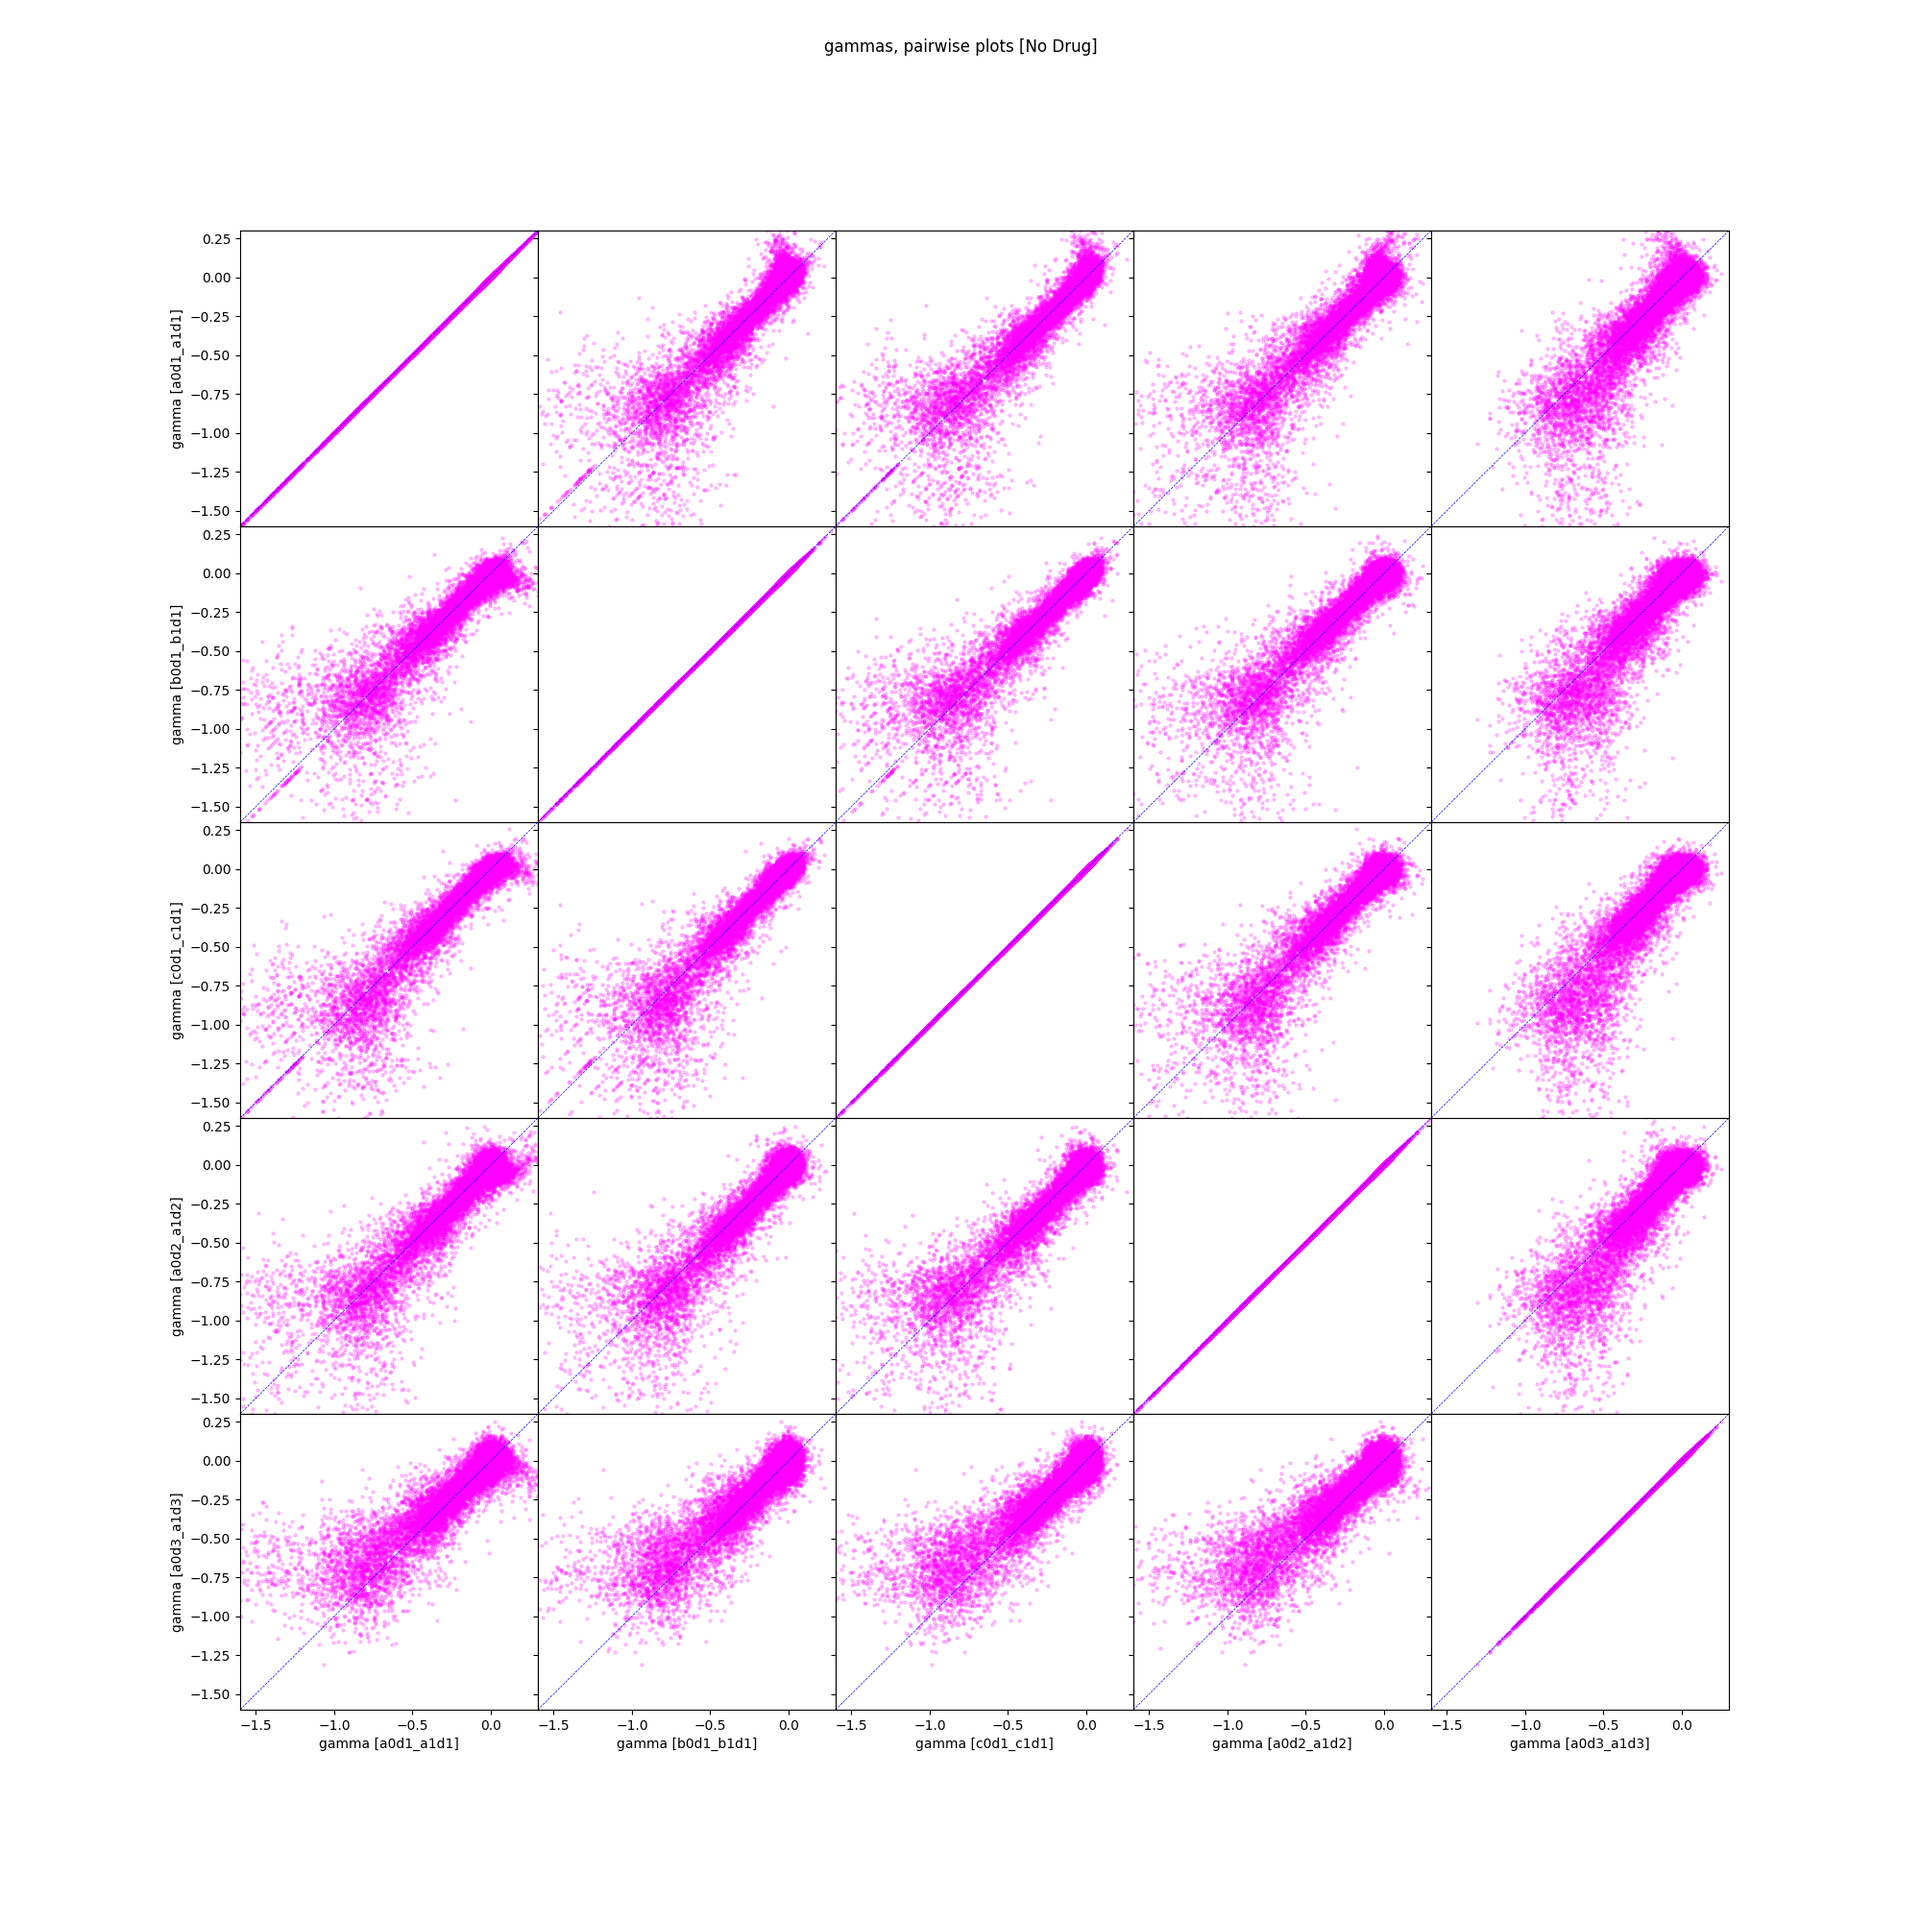
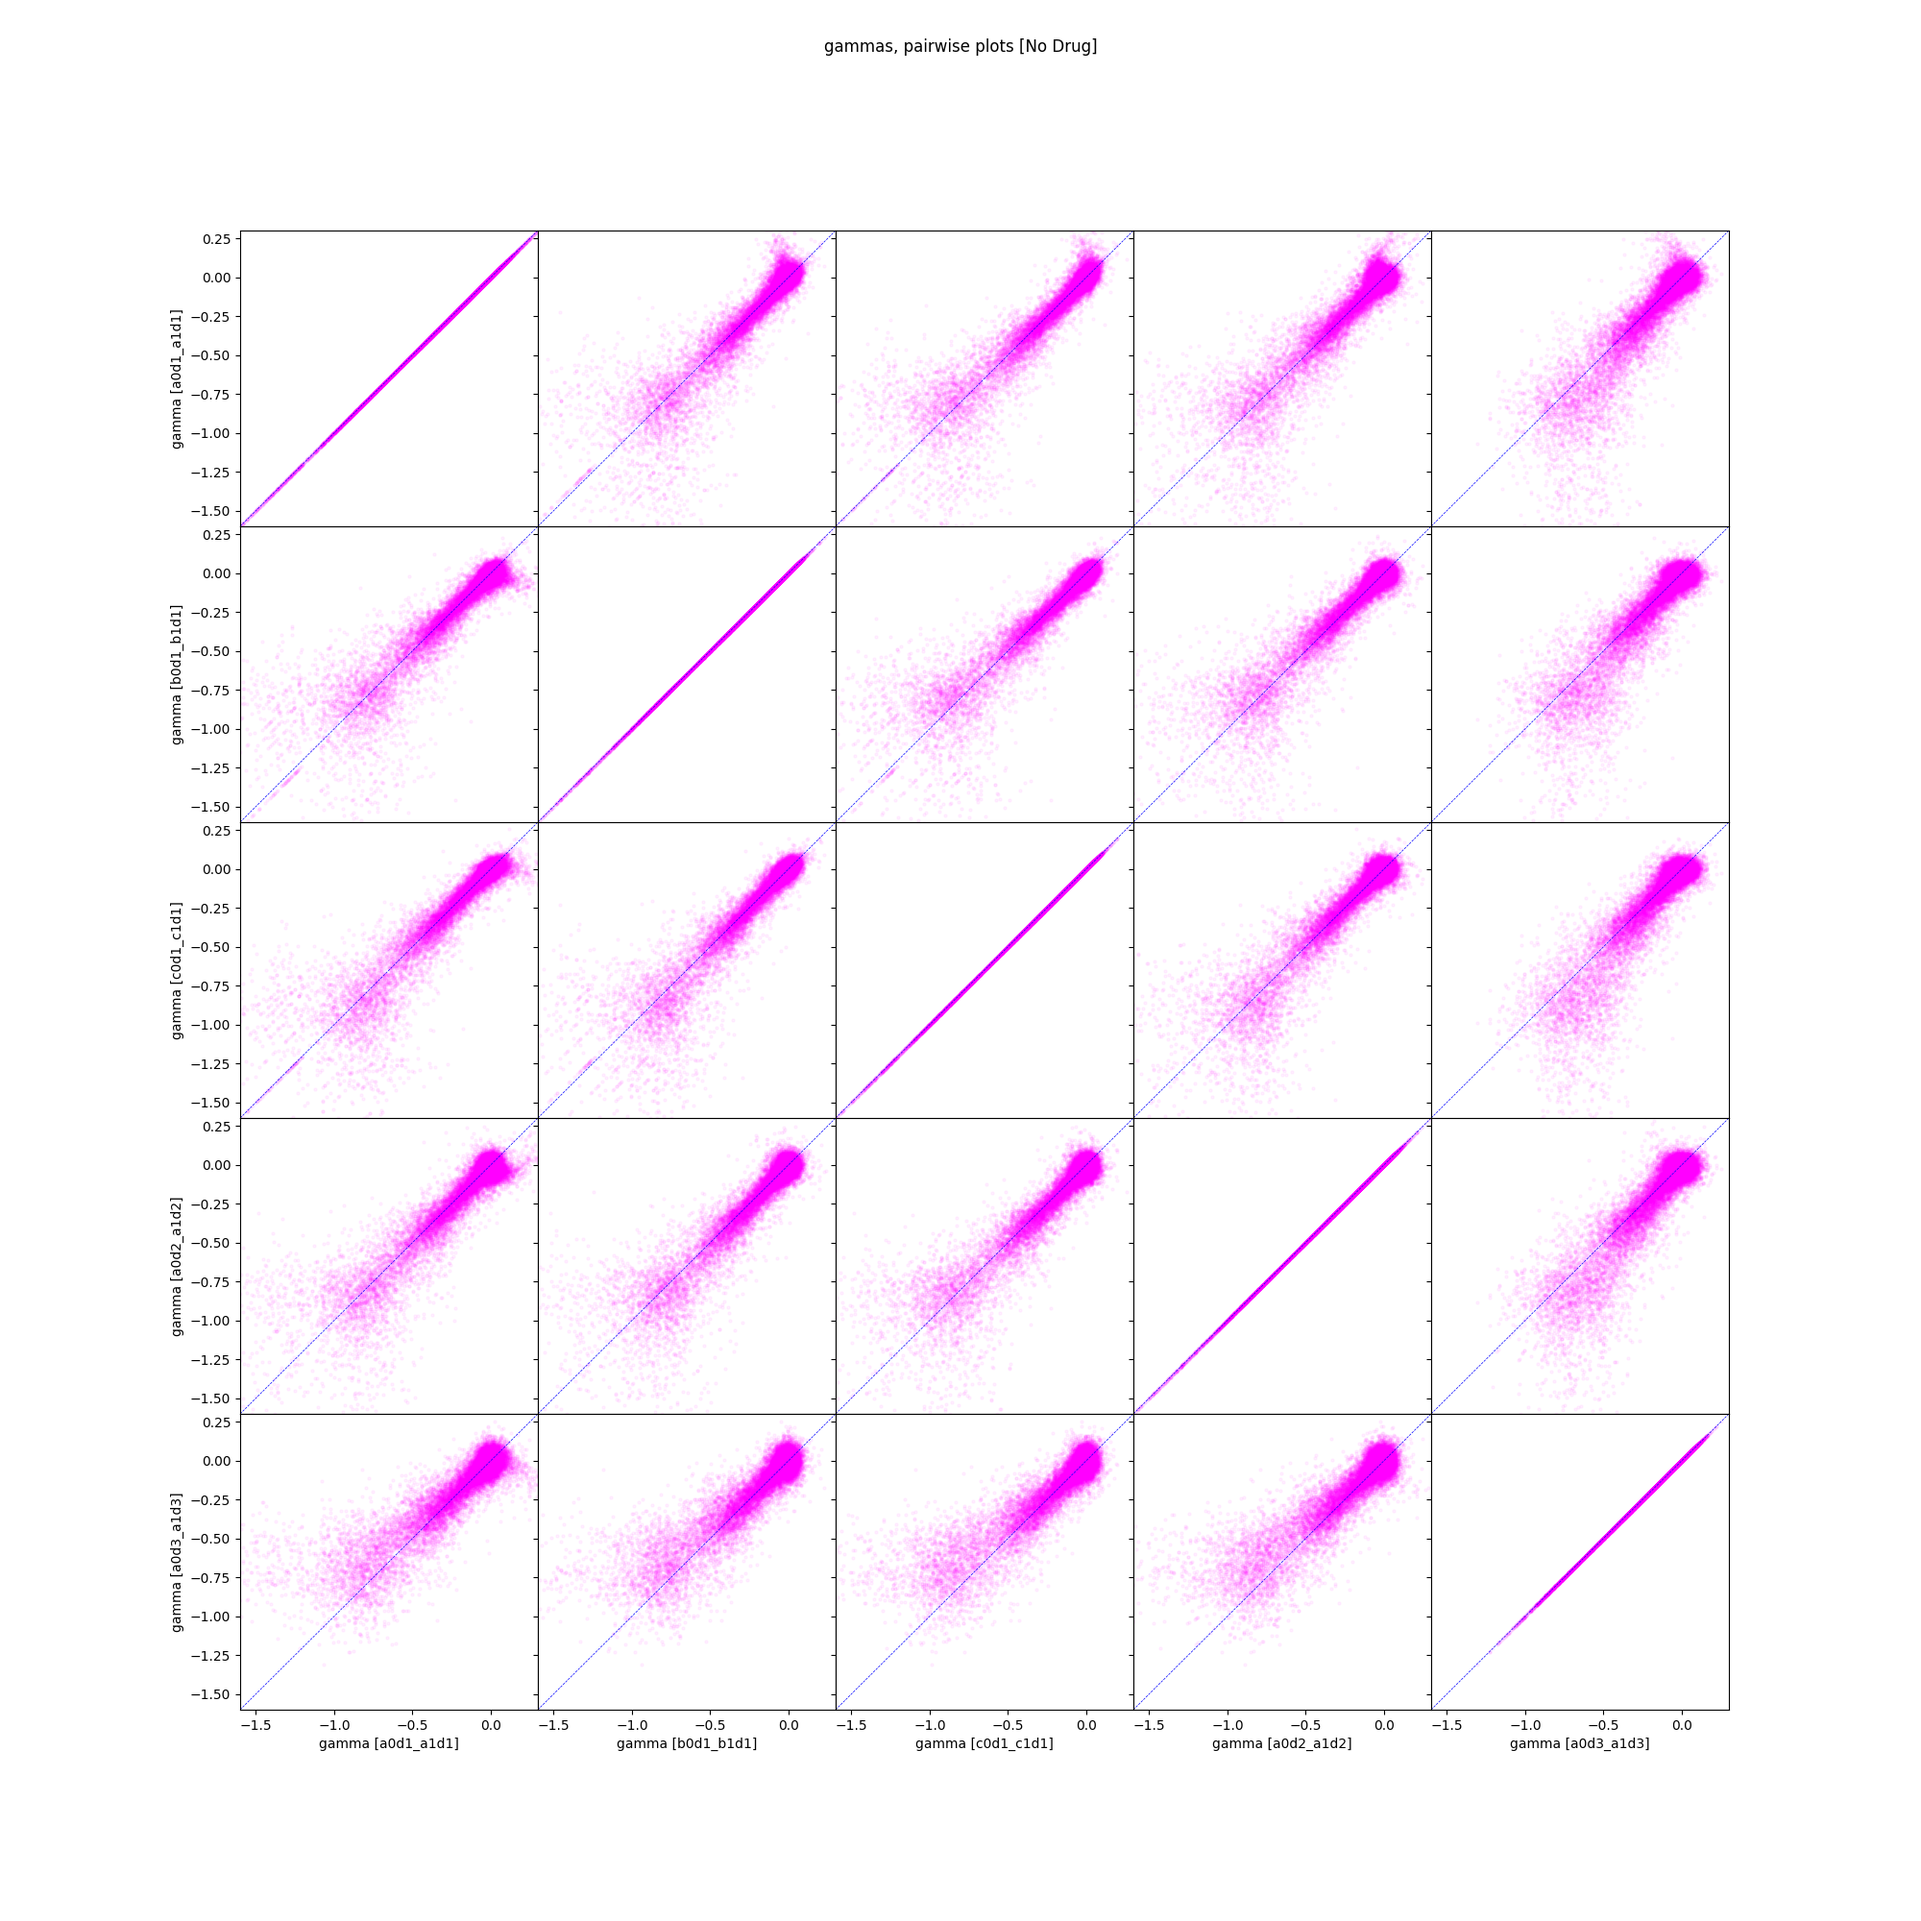
Reduce alpha and drop busy graphs from minimal interval graphs
Former-commit-id: fa0ce6e9e61577d775fdc29114989b5097ec243b [formerly 9e6d4f38651937ad688bd1d1259e41ffae9ac958]
Former-commit-id: e9ee8b92f2b10b94bfe145925d5571b1b86ff8fb

diff --git a/docs/20171205_lib2_ind/code/no_drug_pairwise_e_20180220.py b/docs/20171205_lib2_ind/code/no_drug_pairwise_e_20180220.py
@@ -72,7 +72,7 @@ for i, yitem in enumerate(plotsets):
     right = grouper.get_group(yitem)
     merged = pd.merge(left, right, on='variant', suffixes=['_l', '_r'])
     ax = sns.regplot('gamma_l', 'gamma_r', data=merged, fit_reg=False, ax=ax,
-                     scatter_kws=dict(s=sizes, alpha=0.2, color='magenta'))
+                     scatter_kws=dict(s=sizes, alpha=0.05, color='magenta'))
     ax.set_xlim(start, stop)
     ax.set_ylim(start, stop)
     ax.set(xlabel='gamma [' + leftname + ']')
@@ -81,8 +81,8 @@ for i, yitem in enumerate(plotsets):
 
 fig.suptitle('gammas, pairwise plots [No Drug]')
 fig.subplots_adjust(hspace=0, wspace=0)
-logging.info('Writing rich graph to {graphout}'.format(**vars()))
-plt.savefig(graphout)
+# logging.info('Writing rich graph to {graphout}'.format(**vars()))
+# plt.savefig(graphout)
 logging.info('Writing flat graph to {graphflat}'.format(**vars()))
 plt.savefig(graphflat)
 plt.close(fig)

diff --git a/docs/20171205_lib2_ind/code/no_drug_pairwise_l_20180220.py b/docs/20171205_lib2_ind/code/no_drug_pairwise_l_20180220.py
@@ -72,7 +72,7 @@ for i, yitem in enumerate(plotsets):
     right = grouper.get_group(yitem)
     merged = pd.merge(left, right, on='variant', suffixes=['_l', '_r'])
     ax = sns.regplot('gamma_l', 'gamma_r', data=merged, fit_reg=False, ax=ax,
-                     scatter_kws=dict(s=sizes, alpha=0.2, color='magenta'))
+                     scatter_kws=dict(s=sizes, alpha=0.05, color='magenta'))
     ax.set_xlim(start, stop)
     ax.set_ylim(start, stop)
     ax.set(xlabel='gamma [' + leftname + ']')
@@ -81,8 +81,8 @@ for i, yitem in enumerate(plotsets):
 
 fig.suptitle('gammas, pairwise plots [No Drug]')
 fig.subplots_adjust(hspace=0, wspace=0)
-logging.info('Writing rich graph to {graphout}'.format(**vars()))
-plt.savefig(graphout)
+# logging.info('Writing rich graph to {graphout}'.format(**vars()))
+# plt.savefig(graphout)
 logging.info('Writing flat graph to {graphflat}'.format(**vars()))
 plt.savefig(graphflat)
 plt.close(fig)

diff --git a/docs/20171205_lib2_ind/code/no_drug_pairwise_m_20180220.py b/docs/20171205_lib2_ind/code/no_drug_pairwise_m_20180220.py
@@ -72,7 +72,7 @@ for i, yitem in enumerate(plotsets):
     right = grouper.get_group(yitem)
     merged = pd.merge(left, right, on='variant', suffixes=['_l', '_r'])
     ax = sns.regplot('gamma_l', 'gamma_r', data=merged, fit_reg=False, ax=ax,
-                     scatter_kws=dict(s=sizes, alpha=0.2, color='magenta'))
+                     scatter_kws=dict(s=sizes, alpha=0.05, color='magenta'))
     ax.set_xlim(start, stop)
     ax.set_ylim(start, stop)
     ax.set(xlabel='gamma [' + leftname + ']')
@@ -81,8 +81,8 @@ for i, yitem in enumerate(plotsets):
 
 fig.suptitle('gammas, pairwise plots [No Drug]')
 fig.subplots_adjust(hspace=0, wspace=0)
-logging.info('Writing rich graph to {graphout}'.format(**vars()))
-plt.savefig(graphout)
+# logging.info('Writing rich graph to {graphout}'.format(**vars()))
+# plt.savefig(graphout)
 logging.info('Writing flat graph to {graphflat}'.format(**vars()))
 plt.savefig(graphflat)
 plt.close(fig)
